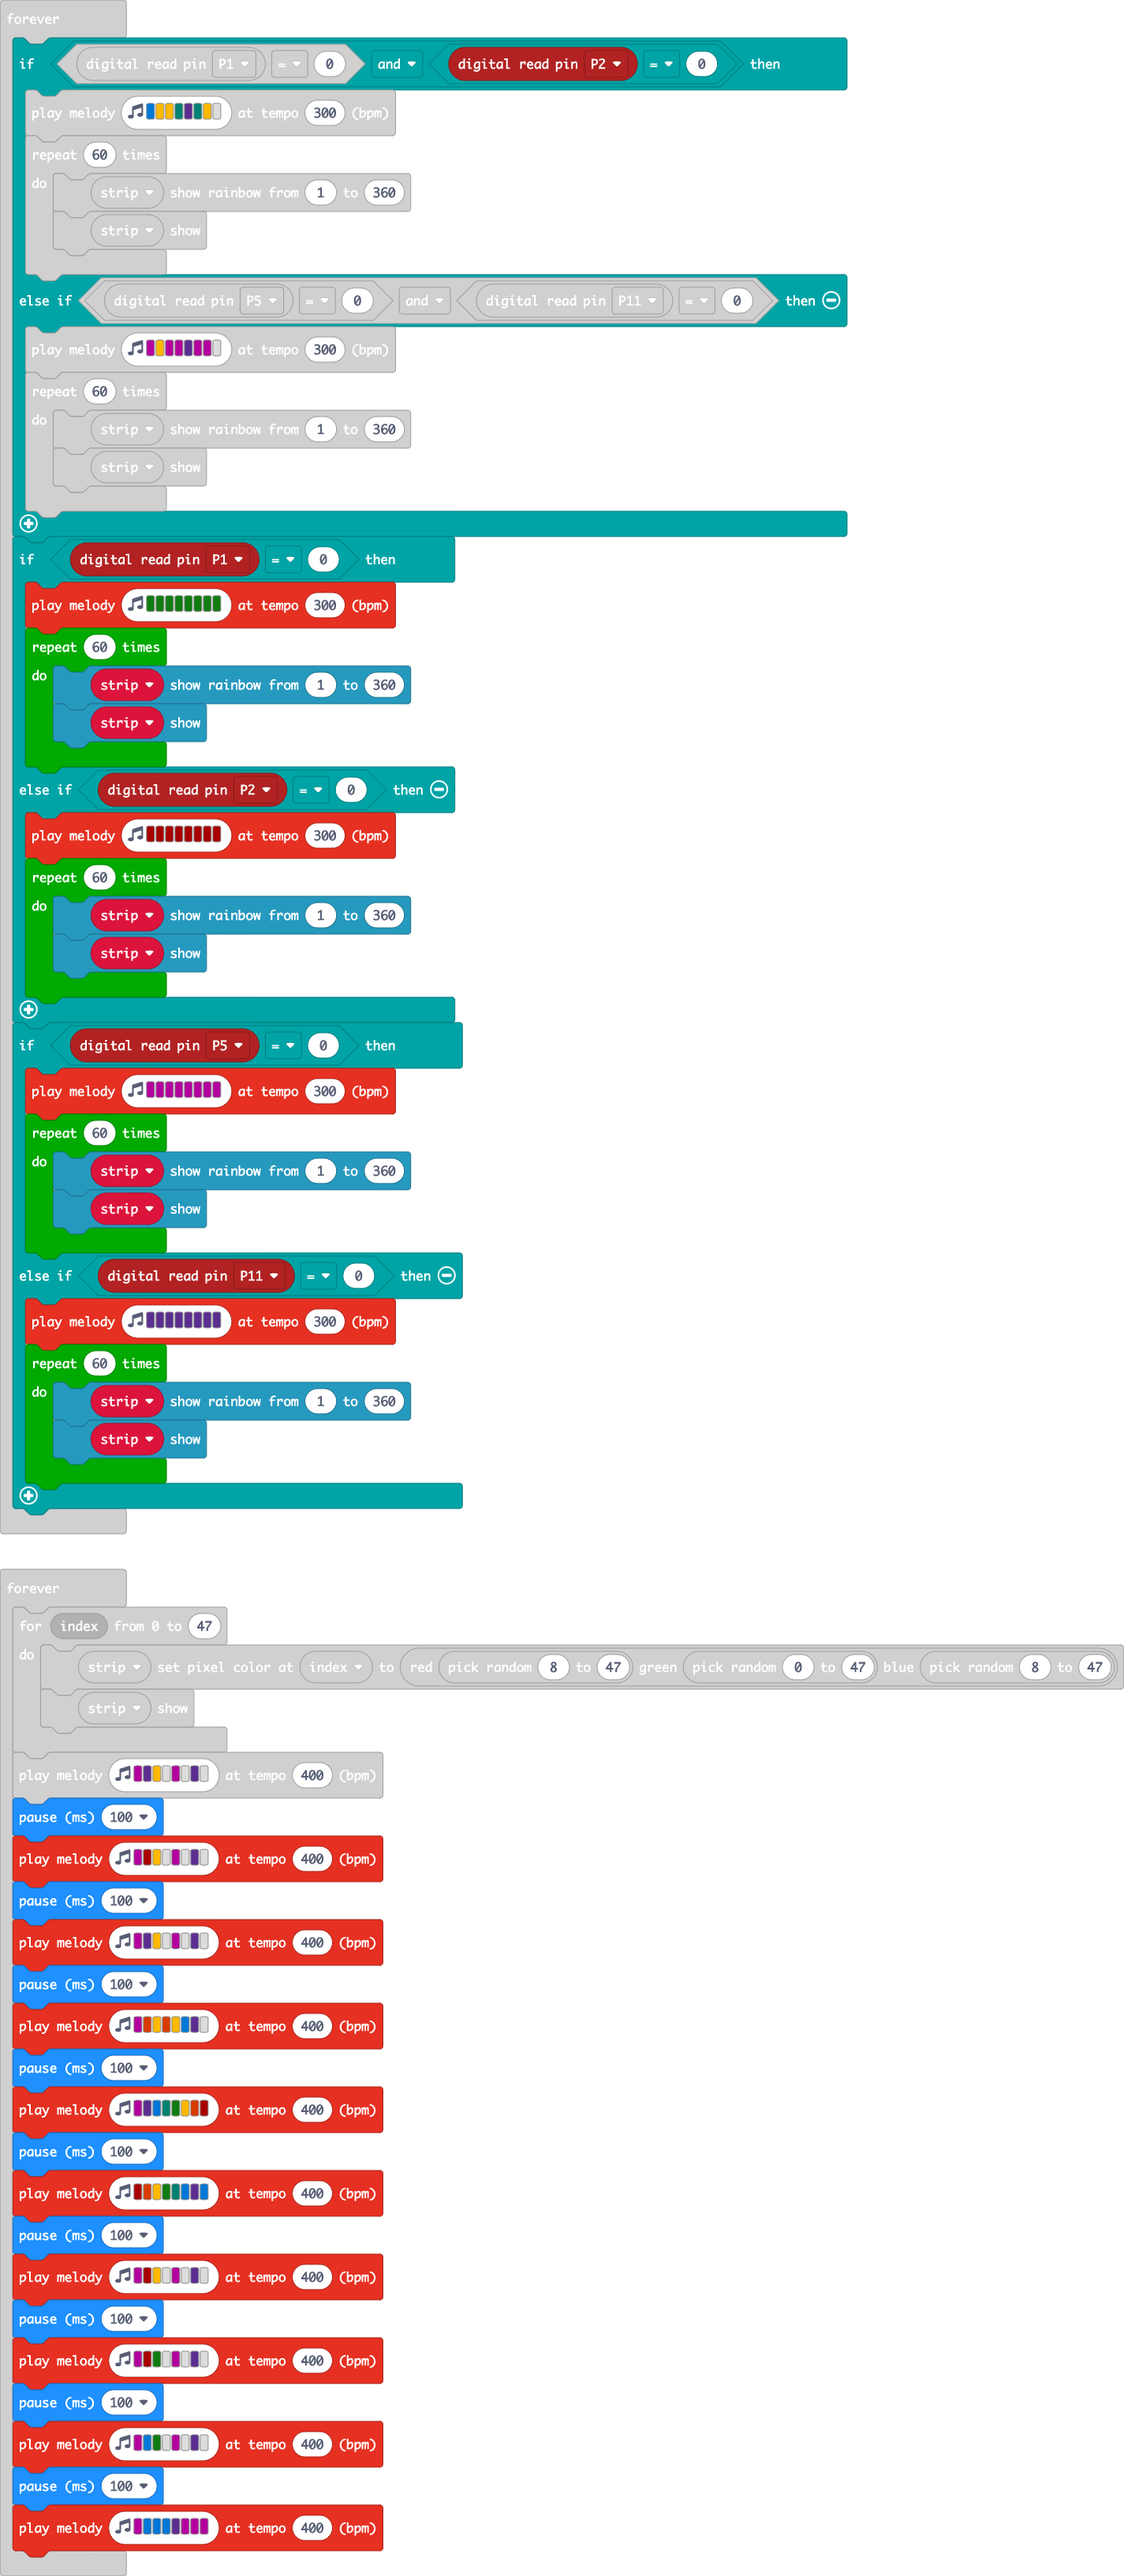
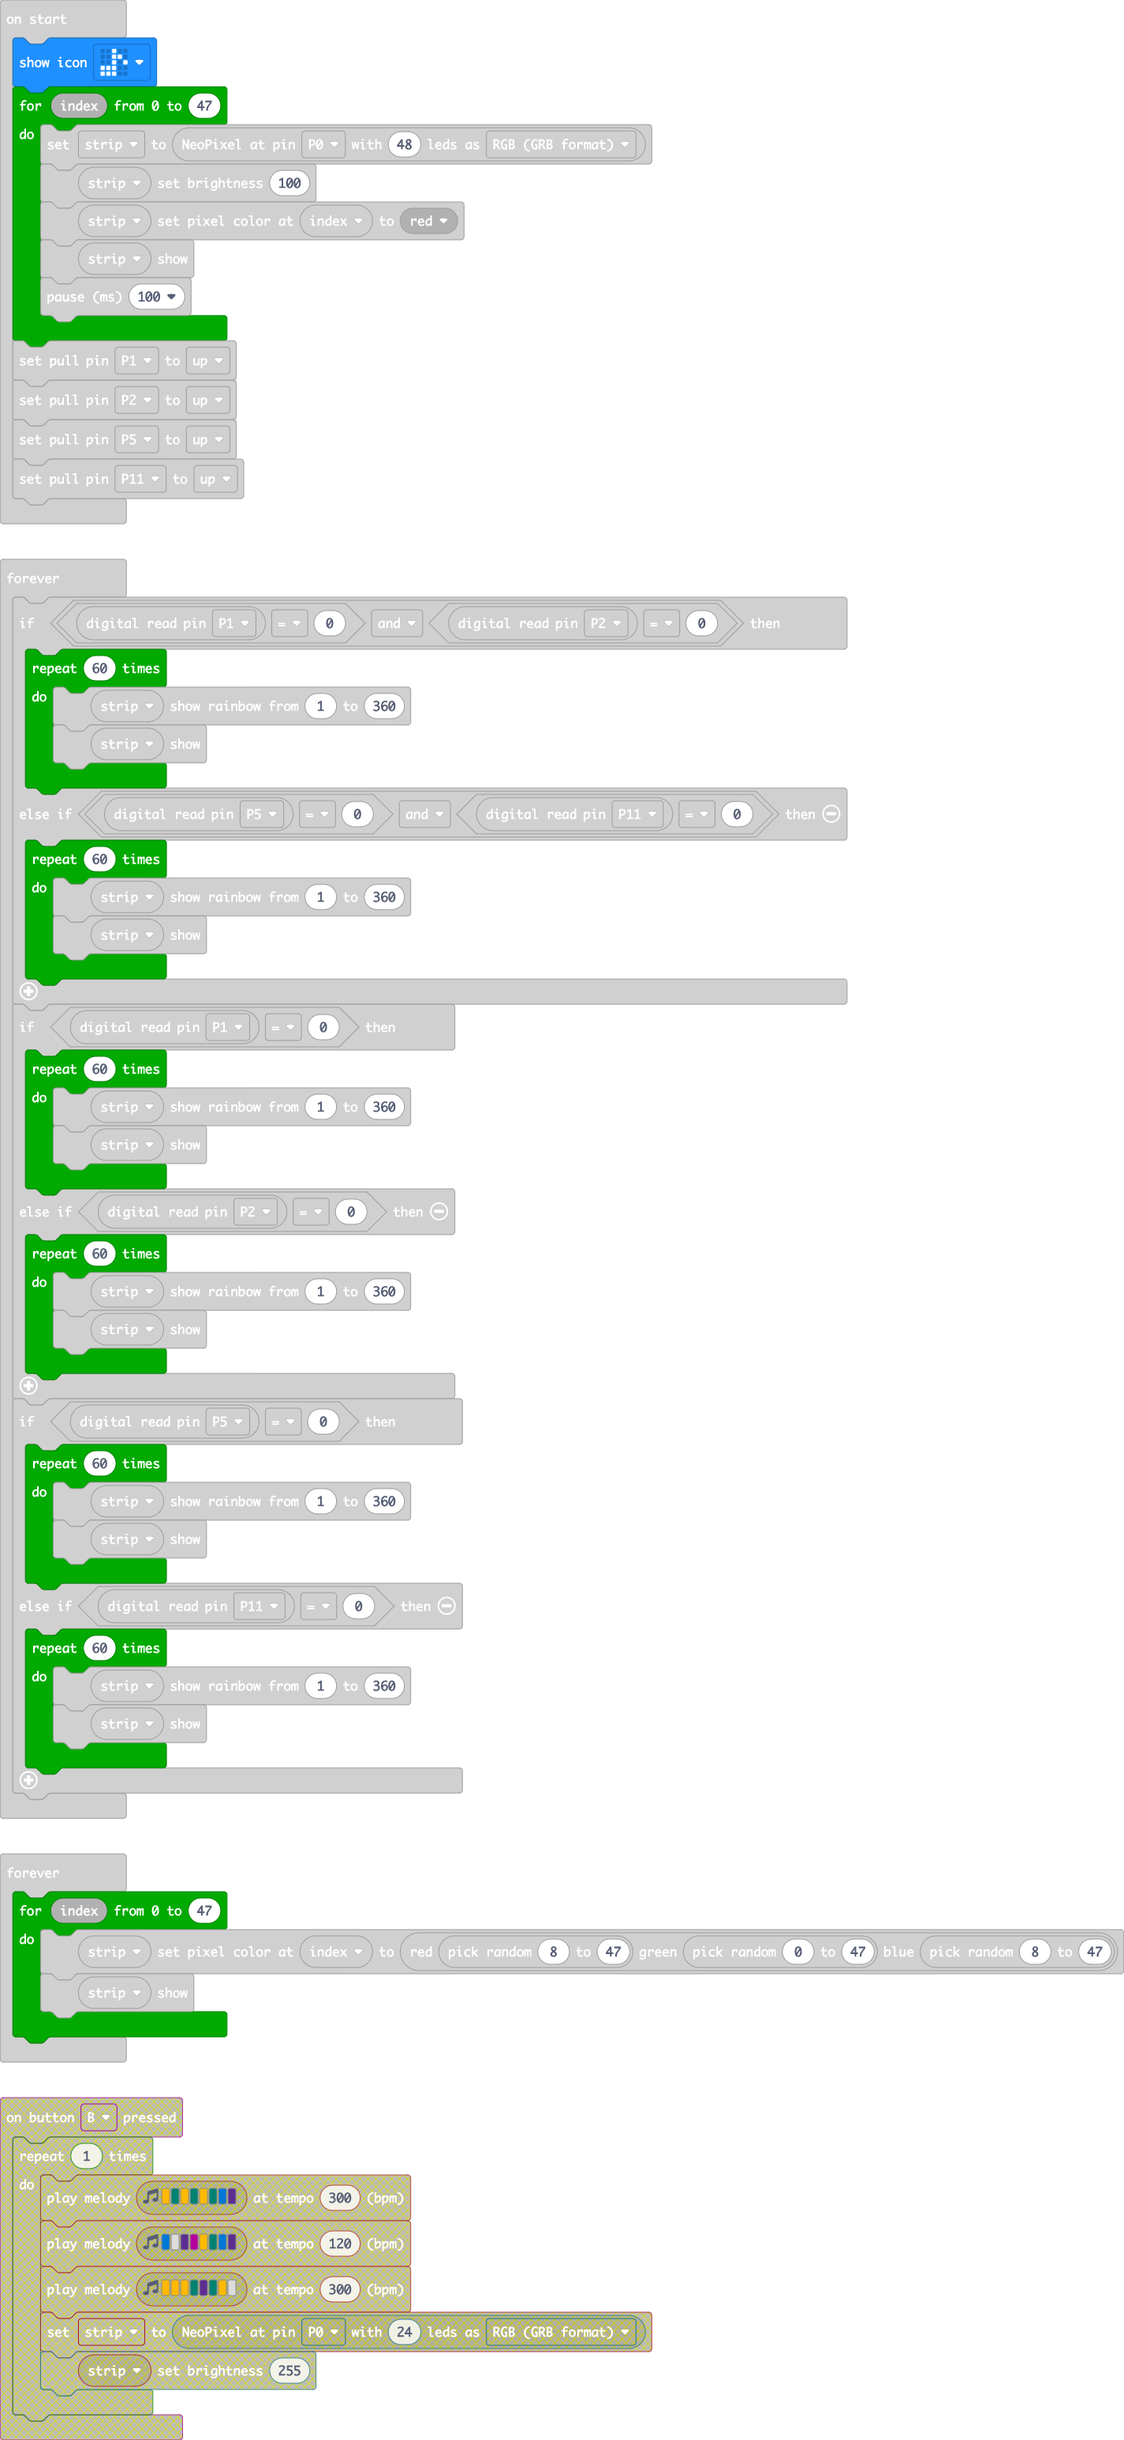
melody pulled

diff --git a/main.ts b/main.ts
@@ -1,15 +1,5 @@
-input.onButtonPressed(Button.B, function () {
-    for (let index = 0; index < 1; index++) {
-        music.playMelody("A F A F A F E D ", 300)
-        music.playMelody("E - D C A F E D ", 120)
-        music.playMelody("A A A F D F A - ", 300)
-        strip = neopixel.create(DigitalPin.P0, 24, NeoPixelMode.RGB)
-        strip.setBrightness(255)
-    }
-})
 let strip: neopixel.Strip = null
 basic.showIcon(IconNames.EigthNote)
-music.playMelody("A F E D C B C5 C5 ", 400)
 for (let index = 0; index <= 47; index++) {
     strip = neopixel.create(DigitalPin.P0, 48, NeoPixelMode.RGB)
     strip.setBrightness(100)
@@ -23,39 +13,33 @@ pins.setPull(DigitalPin.P5, PinPullMode.PullUp)
 pins.setPull(DigitalPin.P11, PinPullMode.PullUp)
 basic.forever(function () {
     if (pins.digitalReadPin(DigitalPin.P1) == 0 && pins.digitalReadPin(DigitalPin.P2) == 0) {
-        music.playMelody("E A A F D F A - ", 300)
         for (let index = 0; index < 60; index++) {
             strip.showRainbow(1, 360)
             strip.show()
         }
     } else if (pins.digitalReadPin(DigitalPin.P5) == 0 && pins.digitalReadPin(DigitalPin.P11) == 0) {
-        music.playMelody("C A C C D C C - ", 300)
         for (let index = 0; index < 60; index++) {
             strip.showRainbow(1, 360)
             strip.show()
         }
     }
     if (pins.digitalReadPin(DigitalPin.P1) == 0) {
-        music.playMelody("G G G G G G G G ", 300)
         for (let index = 0; index < 60; index++) {
             strip.showRainbow(1, 360)
             strip.show()
         }
     } else if (pins.digitalReadPin(DigitalPin.P2) == 0) {
-        music.playMelody("C5 C5 C5 C5 C5 C5 C5 C5 ", 300)
         for (let index = 0; index < 60; index++) {
             strip.showRainbow(1, 360)
             strip.show()
         }
     }
     if (pins.digitalReadPin(DigitalPin.P5) == 0) {
-        music.playMelody("C C C C C C C C ", 300)
         for (let index = 0; index < 60; index++) {
             strip.showRainbow(1, 360)
             strip.show()
         }
     } else if (pins.digitalReadPin(DigitalPin.P11) == 0) {
-        music.playMelody("D D D D D D D D ", 300)
         for (let index = 0; index < 60; index++) {
             strip.showRainbow(1, 360)
             strip.show()
@@ -67,23 +51,4 @@ basic.forever(function () {
         strip.setPixelColor(index, neopixel.rgb(randint(8, 47), randint(0, 47), randint(8, 47)))
         strip.show()
     }
-    music.playMelody("C D A - C - D - ", 400)
-    basic.pause(100)
-    music.playMelody("C C5 A - C - D - ", 400)
-    basic.pause(100)
-    music.playMelody("C D A - C - D - ", 400)
-    basic.pause(100)
-    music.playMelody("C B A B A E D - ", 400)
-    basic.pause(100)
-    music.playMelody("C D E F G A B C5 ", 400)
-    basic.pause(100)
-    music.playMelody("C5 B A G F E D E ", 400)
-    basic.pause(100)
-    music.playMelody("C C5 A - C - D - ", 400)
-    basic.pause(100)
-    music.playMelody("C C5 G - C - D - ", 400)
-    basic.pause(100)
-    music.playMelody("C E G - C - D - ", 400)
-    basic.pause(100)
-    music.playMelody("C E E E D C C C ", 400)
 })
